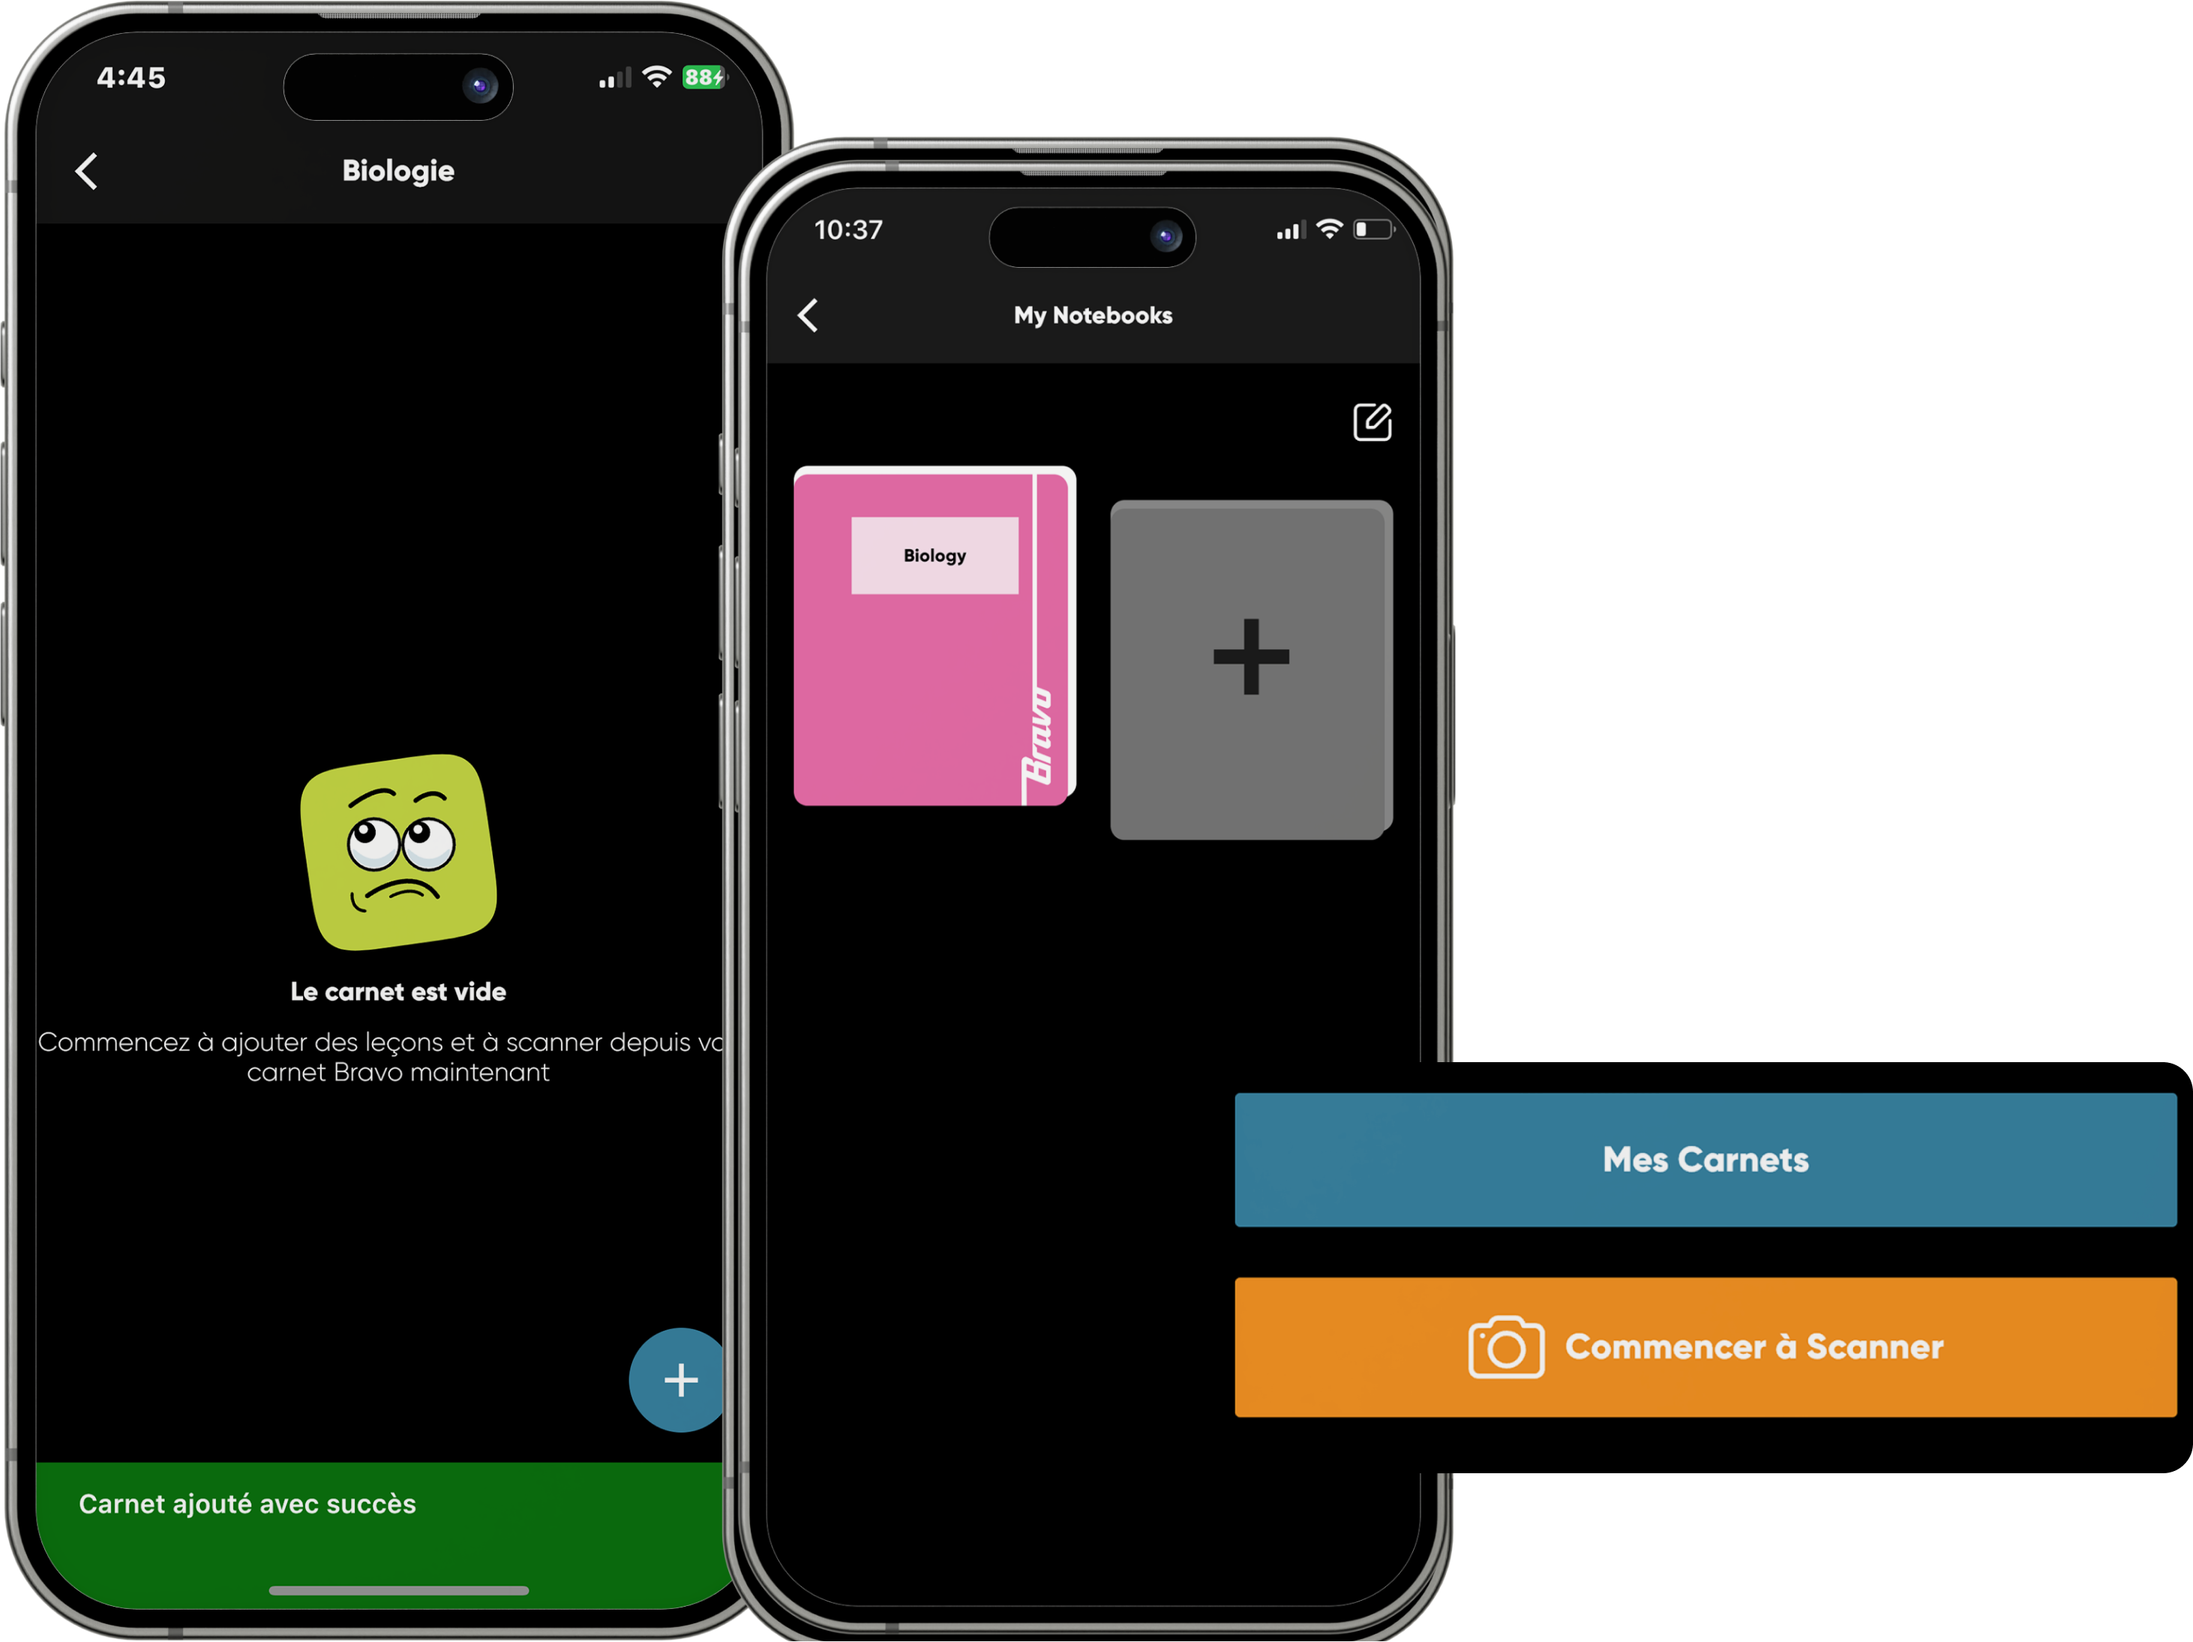
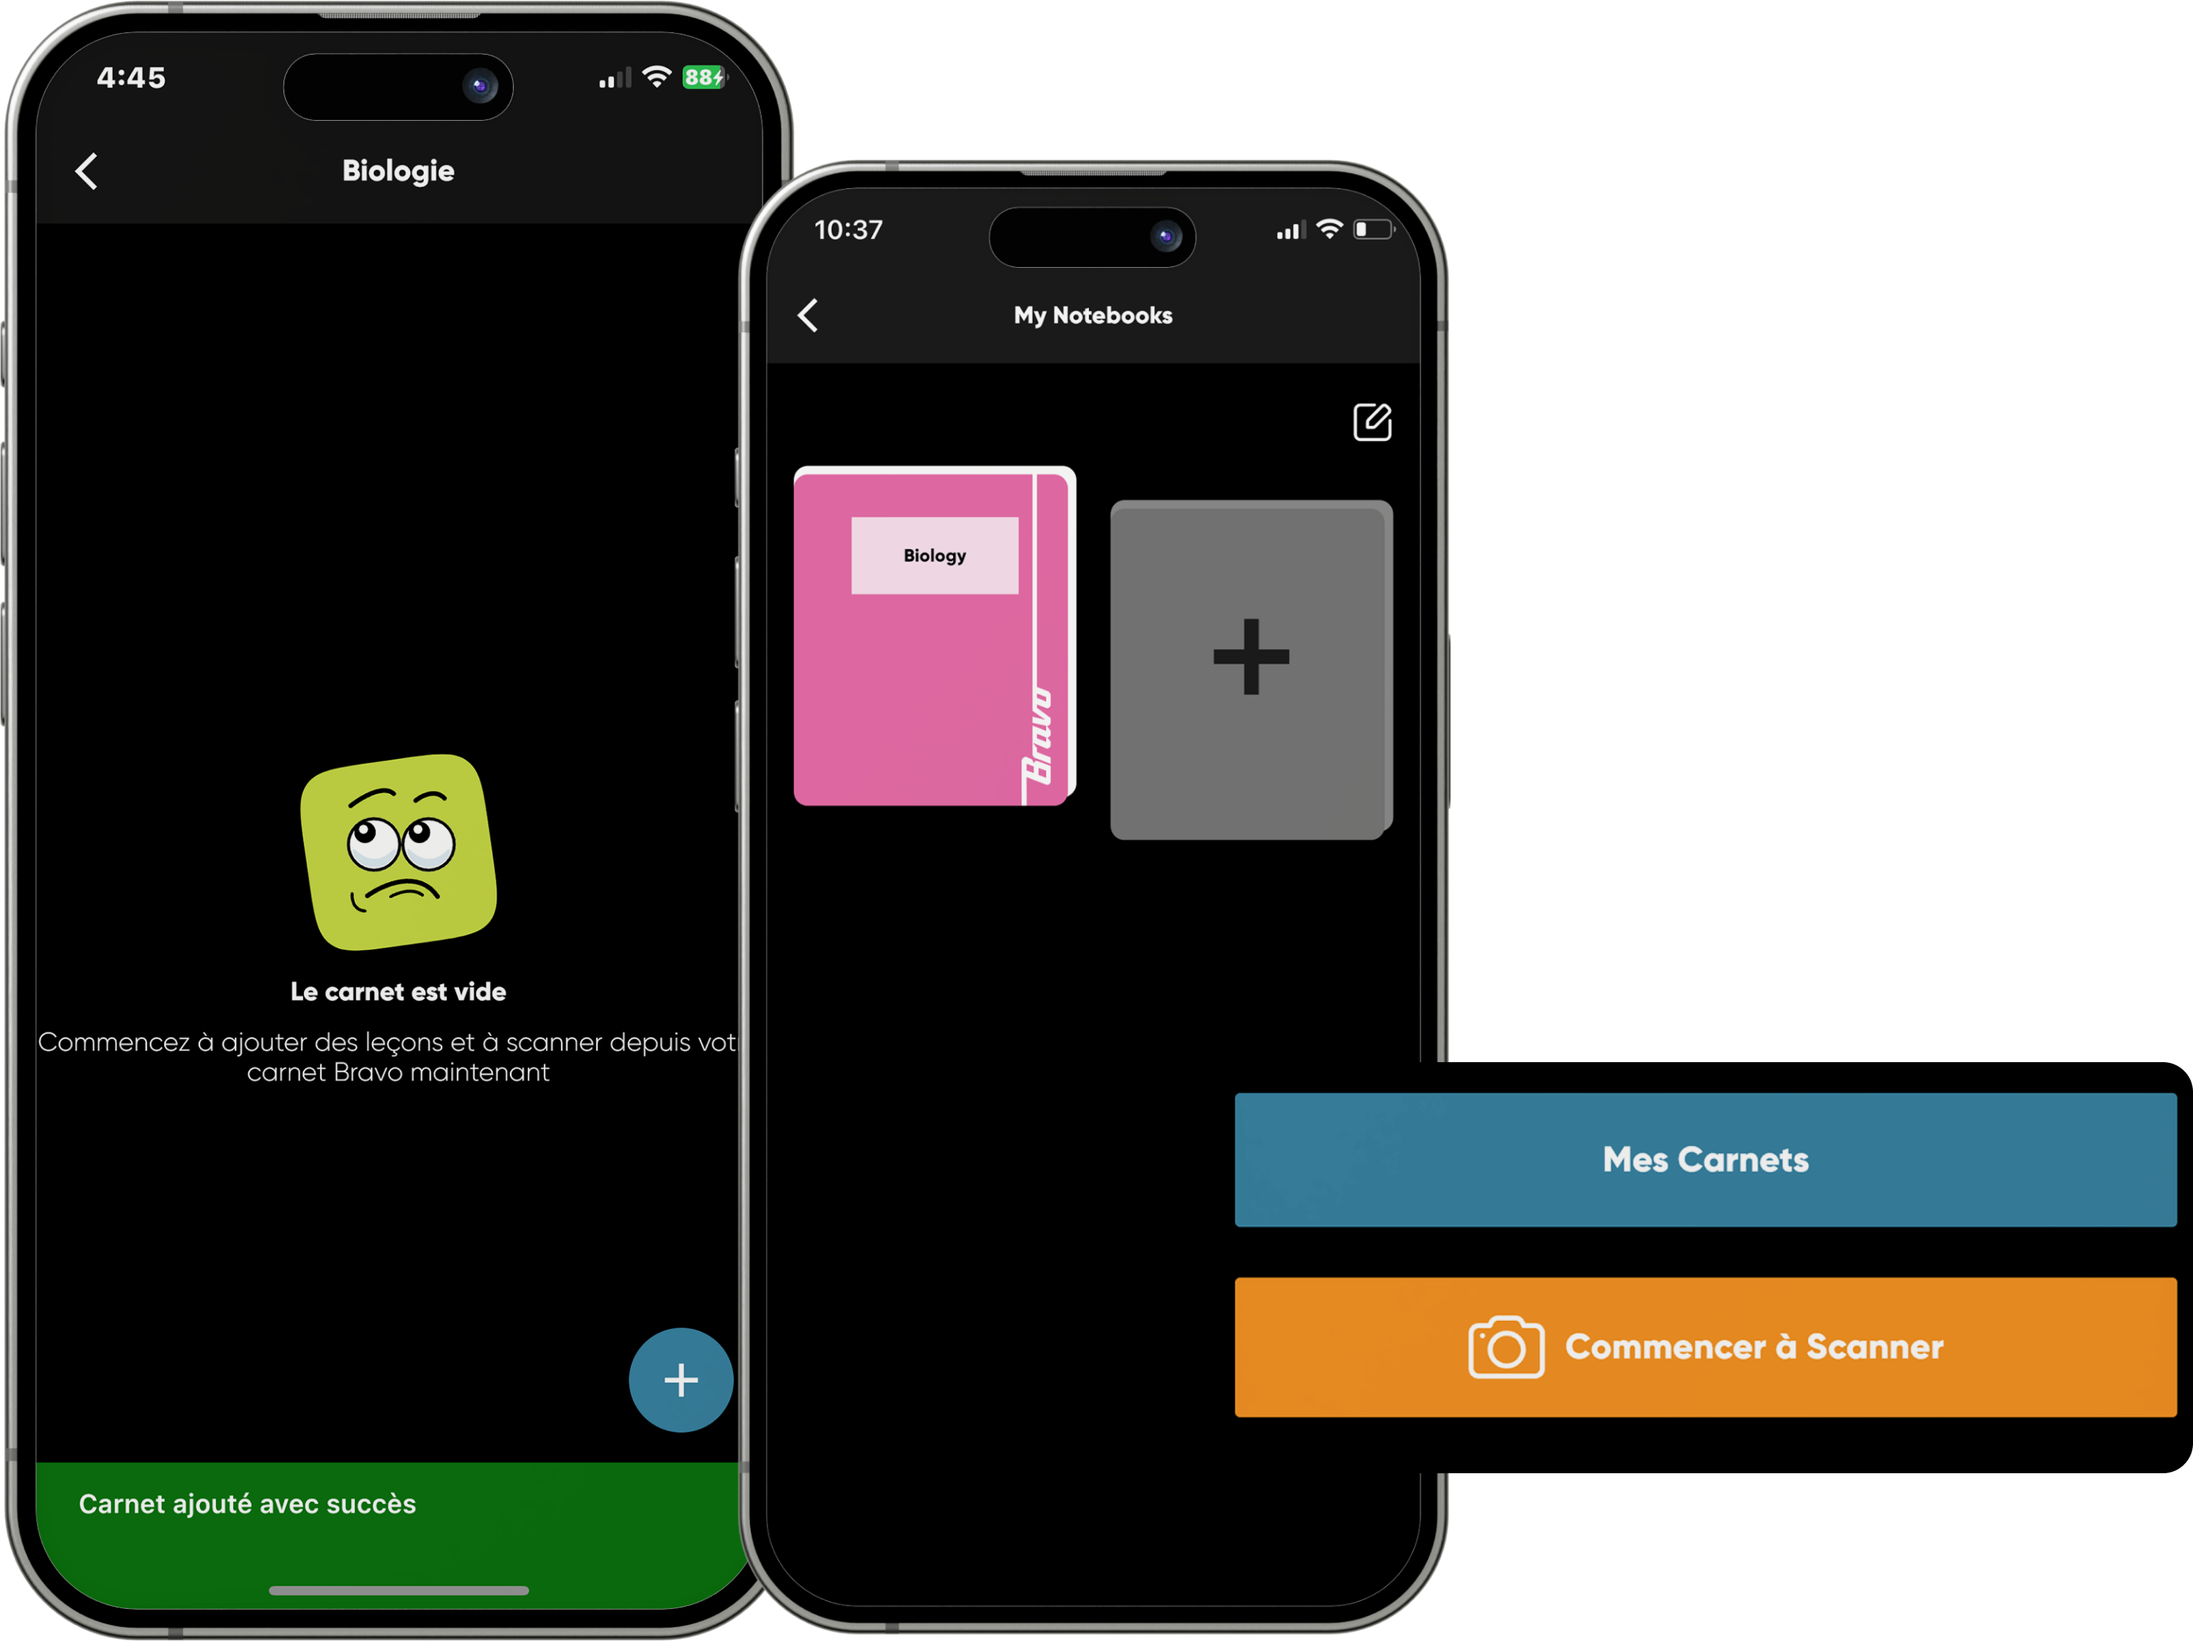
phones and images change

diff --git a/components/sections/buyBravo.tsx b/components/sections/buyBravo.tsx
@@ -59,11 +59,8 @@ function BuyBravo() {
           src={`/images${p}/phone1.png`} 
           height={"2000"} 
           width={"1000"} 
-          className="
-          absolute top-[80px] right-[220px] w-[133px] h-auto 
-          md:w-[200px] md:top-[140px] md:right-[400px]
-          lg:w-[400px] lg:right-[700px] lg:top-[200px]"/>
-        <div className={`${p === '/ar' && "text-right flex-row-reverse"} w-[327px] max-w-full h-[54px] bg-[#CADB4A] flex items-center absolute top-0 md:w-[600px] md:h-[90px] lg:w-[926px] lg:h-[152px]`}>
+          className="absolute top-[80px] right-[220px] w-[133px] h-auto md:w-[200px] md:top-[140px] md:right-[400px] lg:w-[400px] lg:right-[700px] lg:top-[200px]"/>
+          <div className={`${p === '/ar' && "text-right flex-row-reverse"} w-[327px] max-w-full h-[54px] bg-[#CADB4A] flex items-center absolute top-0 md:w-[600px] md:h-[90px] lg:w-[926px] lg:h-[152px]`}>
           <p className={`${p === '/ar' ? "mr-10" : "ml-4 lg:ml-10"} text-[10px] md:text-[20px] text-white lg:text-[30px]`}>{t('title')} {string}</p>
           <div className={`bg-[white] w-[1px] h-[16px] ${p === '/ar' ? "mr-[2px]" : "ml-[2px]"} md:h-[51px] md:w-[2px]`}></div>
         </div>
@@ -90,7 +87,7 @@ function BuyBravo() {
           src={`/images${p}/phone2.png`} 
           height={"2000"} 
           width={"1000"} 
-          className="absolute top-[80px] left-[240px] w-[133px] h-auto md:w-[240px] md:left-[400px] md:top-[140px] lg:w-[470px] lg:top-[250px] lg:left-[750px]"
+          className="absolute top-[80px] left-[240px] w-[133px] h-auto md:w-[220px] md:left-[400px] md:top-[140px] lg:w-[420px] lg:top-[250px] lg:left-[750px]"
         />
         <Image alt="arrow" src={'/images/curlyarrow.svg'} height={"2000"} width={"1000"} className="absolute top-[290px] left-[30px] w-[84px] h-auto md:top-[500px] md:left-[180px] lg:w-[160px] lg:top-[950px]"/>
       </div>
